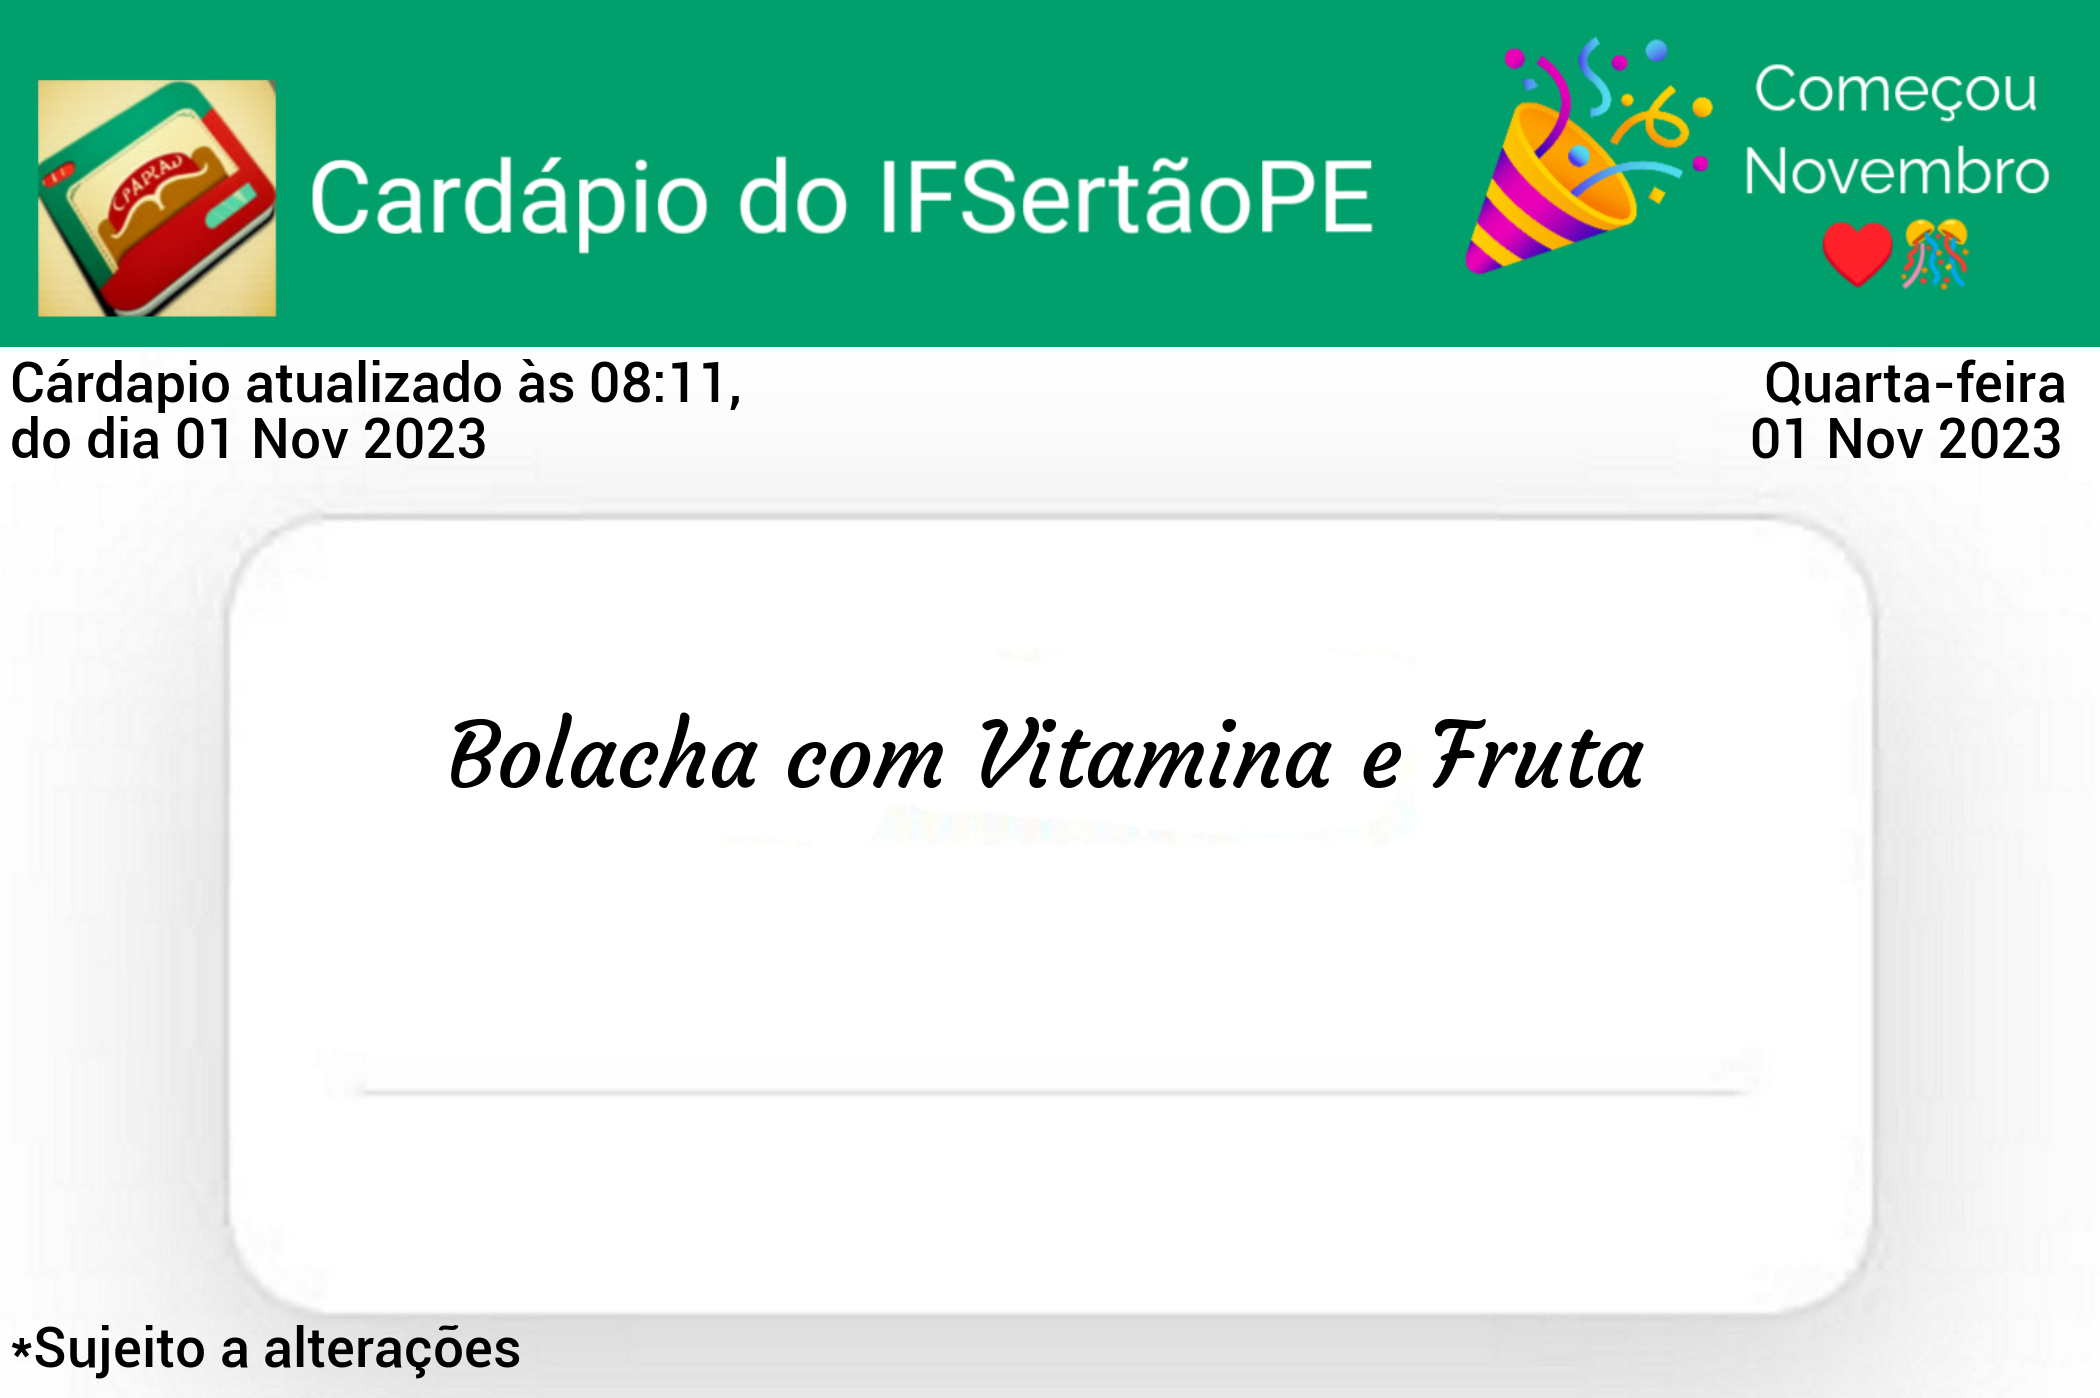
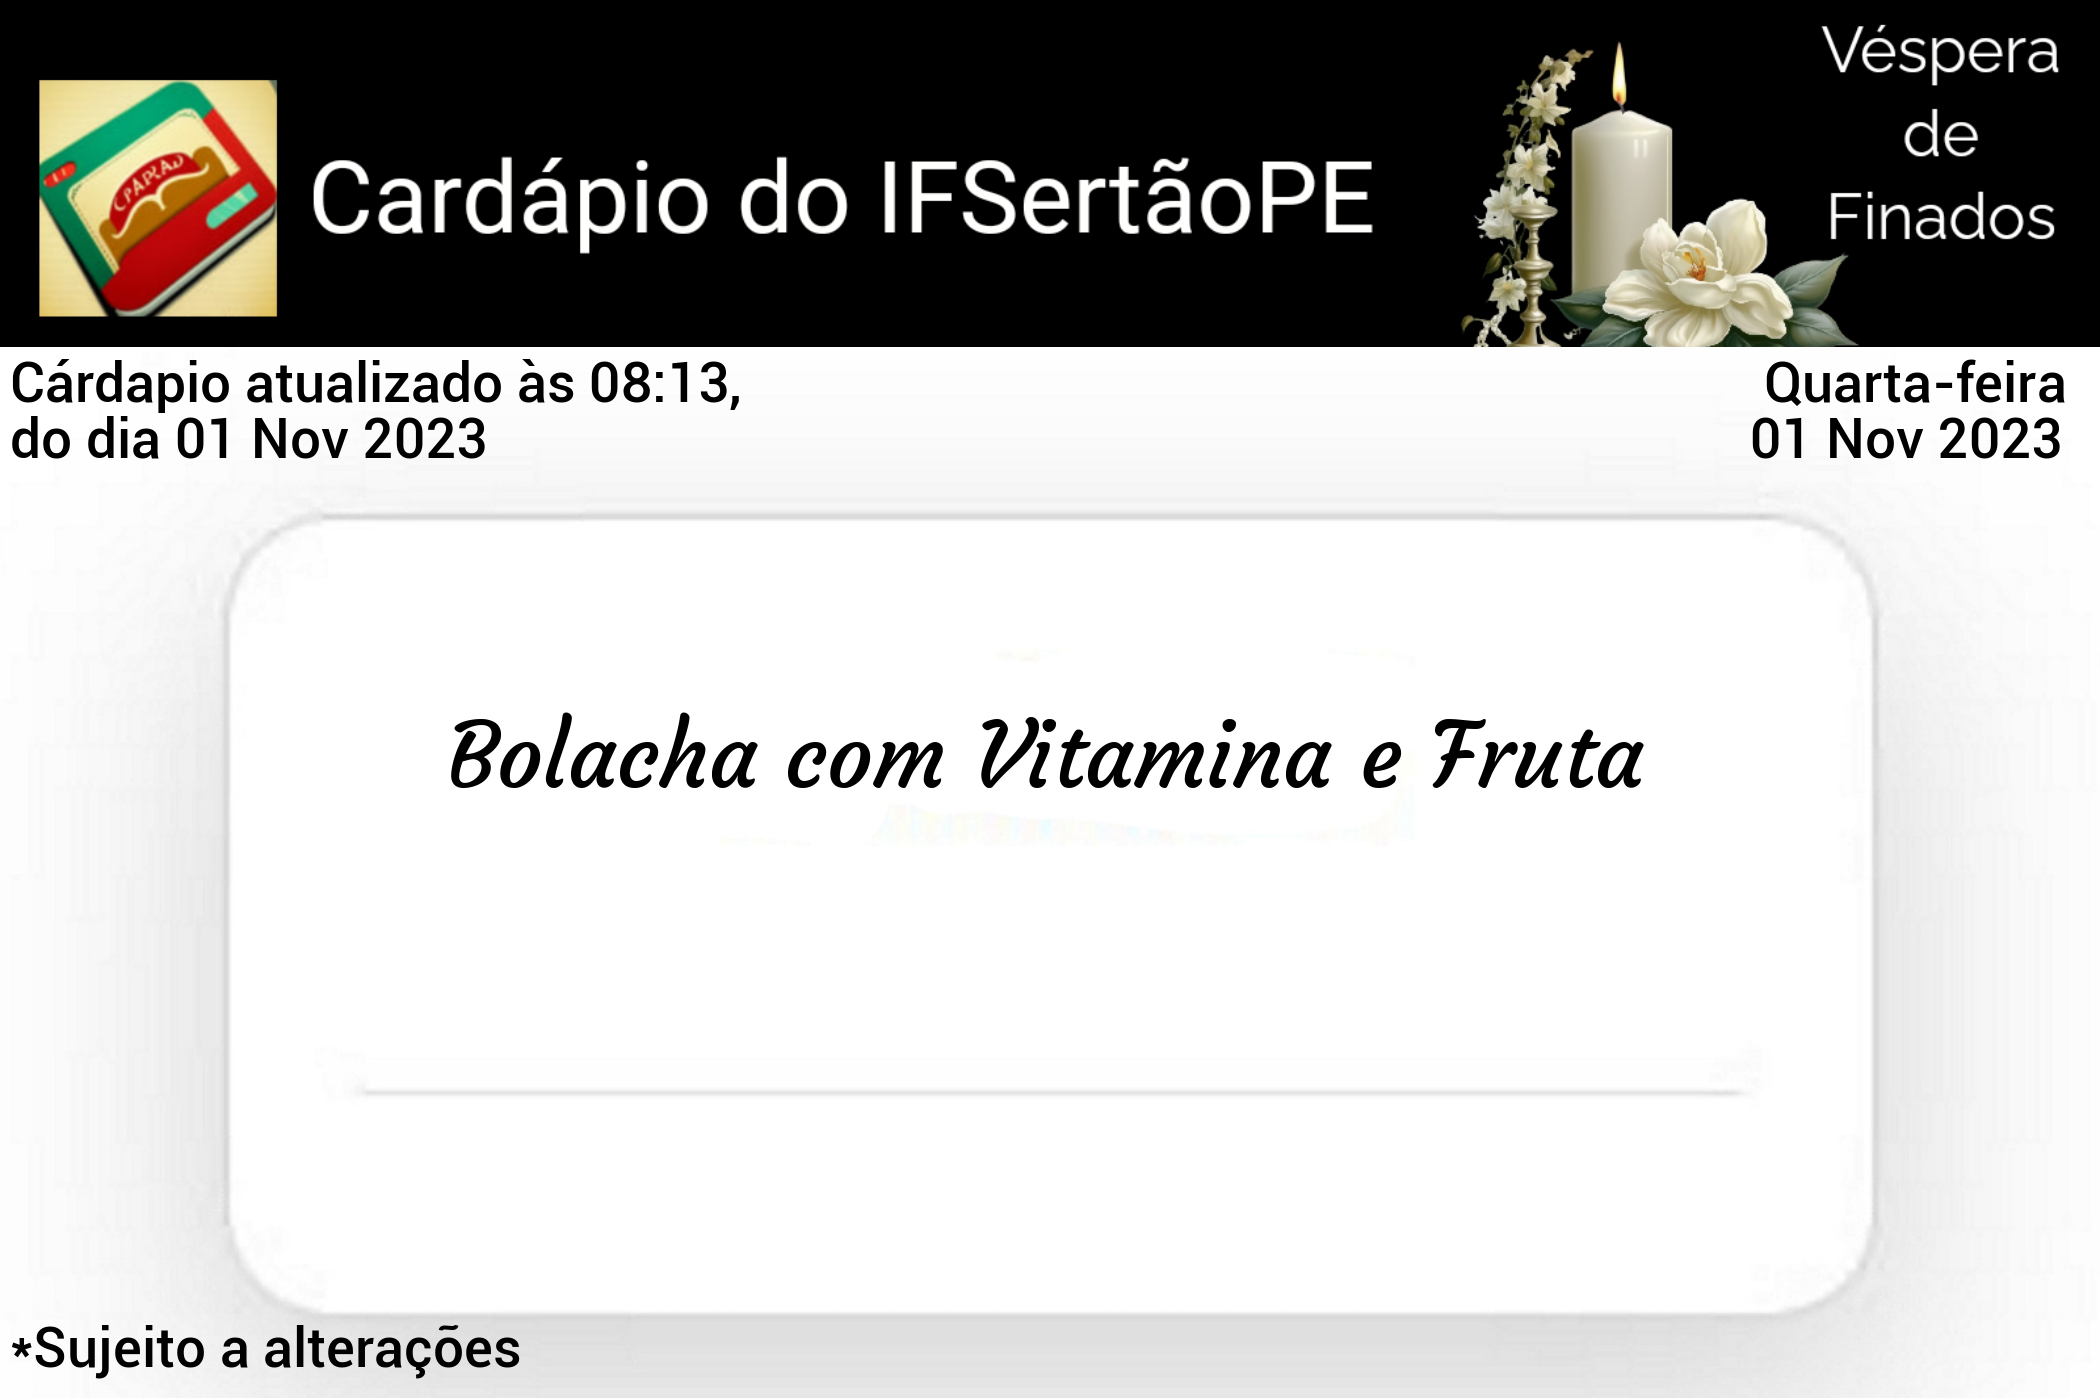
fix bug sorted emojis pt. 2

Changed region(s): [[0.0, 0.0, 1.0, 0.2768]]

diff --git a/src/create_template.py b/src/create_template.py
@@ -4,7 +4,7 @@ from PIL import Image
 from src.tools.date import get_date_info
 from src.tools.resize_for_text import resize_for_text
 
-path_img = 'src/templates/pt1.png'
+path_img = 'src/templates/pt2.png'
 date = get_date_info()
 font_name = "src/font/roboto/Roboto-Medium.ttf"
 
